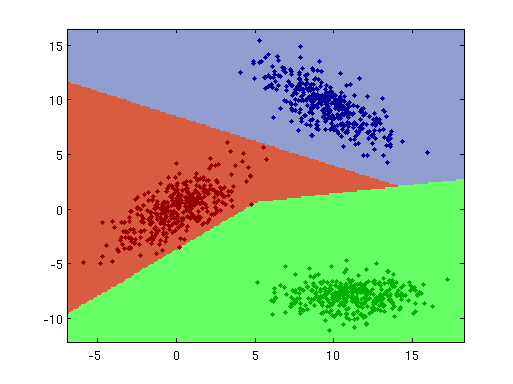
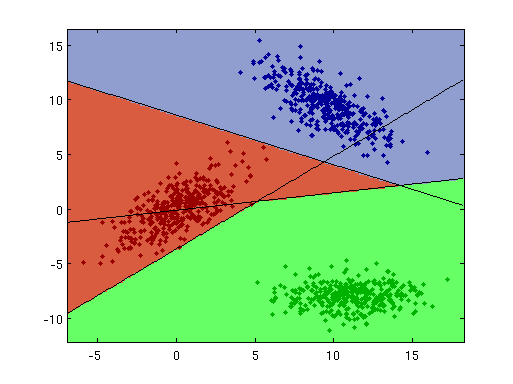
Sweeeeet LIIIINES!

Changed region(s): [[0.7485, 0.4688, 0.8421, 0.5], [0.5926, 0.4062, 0.655, 0.4375], [0.499, 0.5, 0.5302, 0.5312]]

diff --git a/PR/PA3/perceptron.m b/PR/PA3/perceptron.m
@@ -104,6 +104,17 @@ function [ gc_funcs ] = perceptron(training_data)
         
         g_funcs{i} = g;
         
+        
+        %{
+        % Plot some lines
+        x = -6.8586:.1:18.1881;
+
+        f = @(x) -a(2) * x / a(3) - a(1)/a(3);
+        plot(x, f(x), 'k-');
+        %refreshdata
+        drawnow
+        %}
+        
         %input('Continue?');
     end
     
